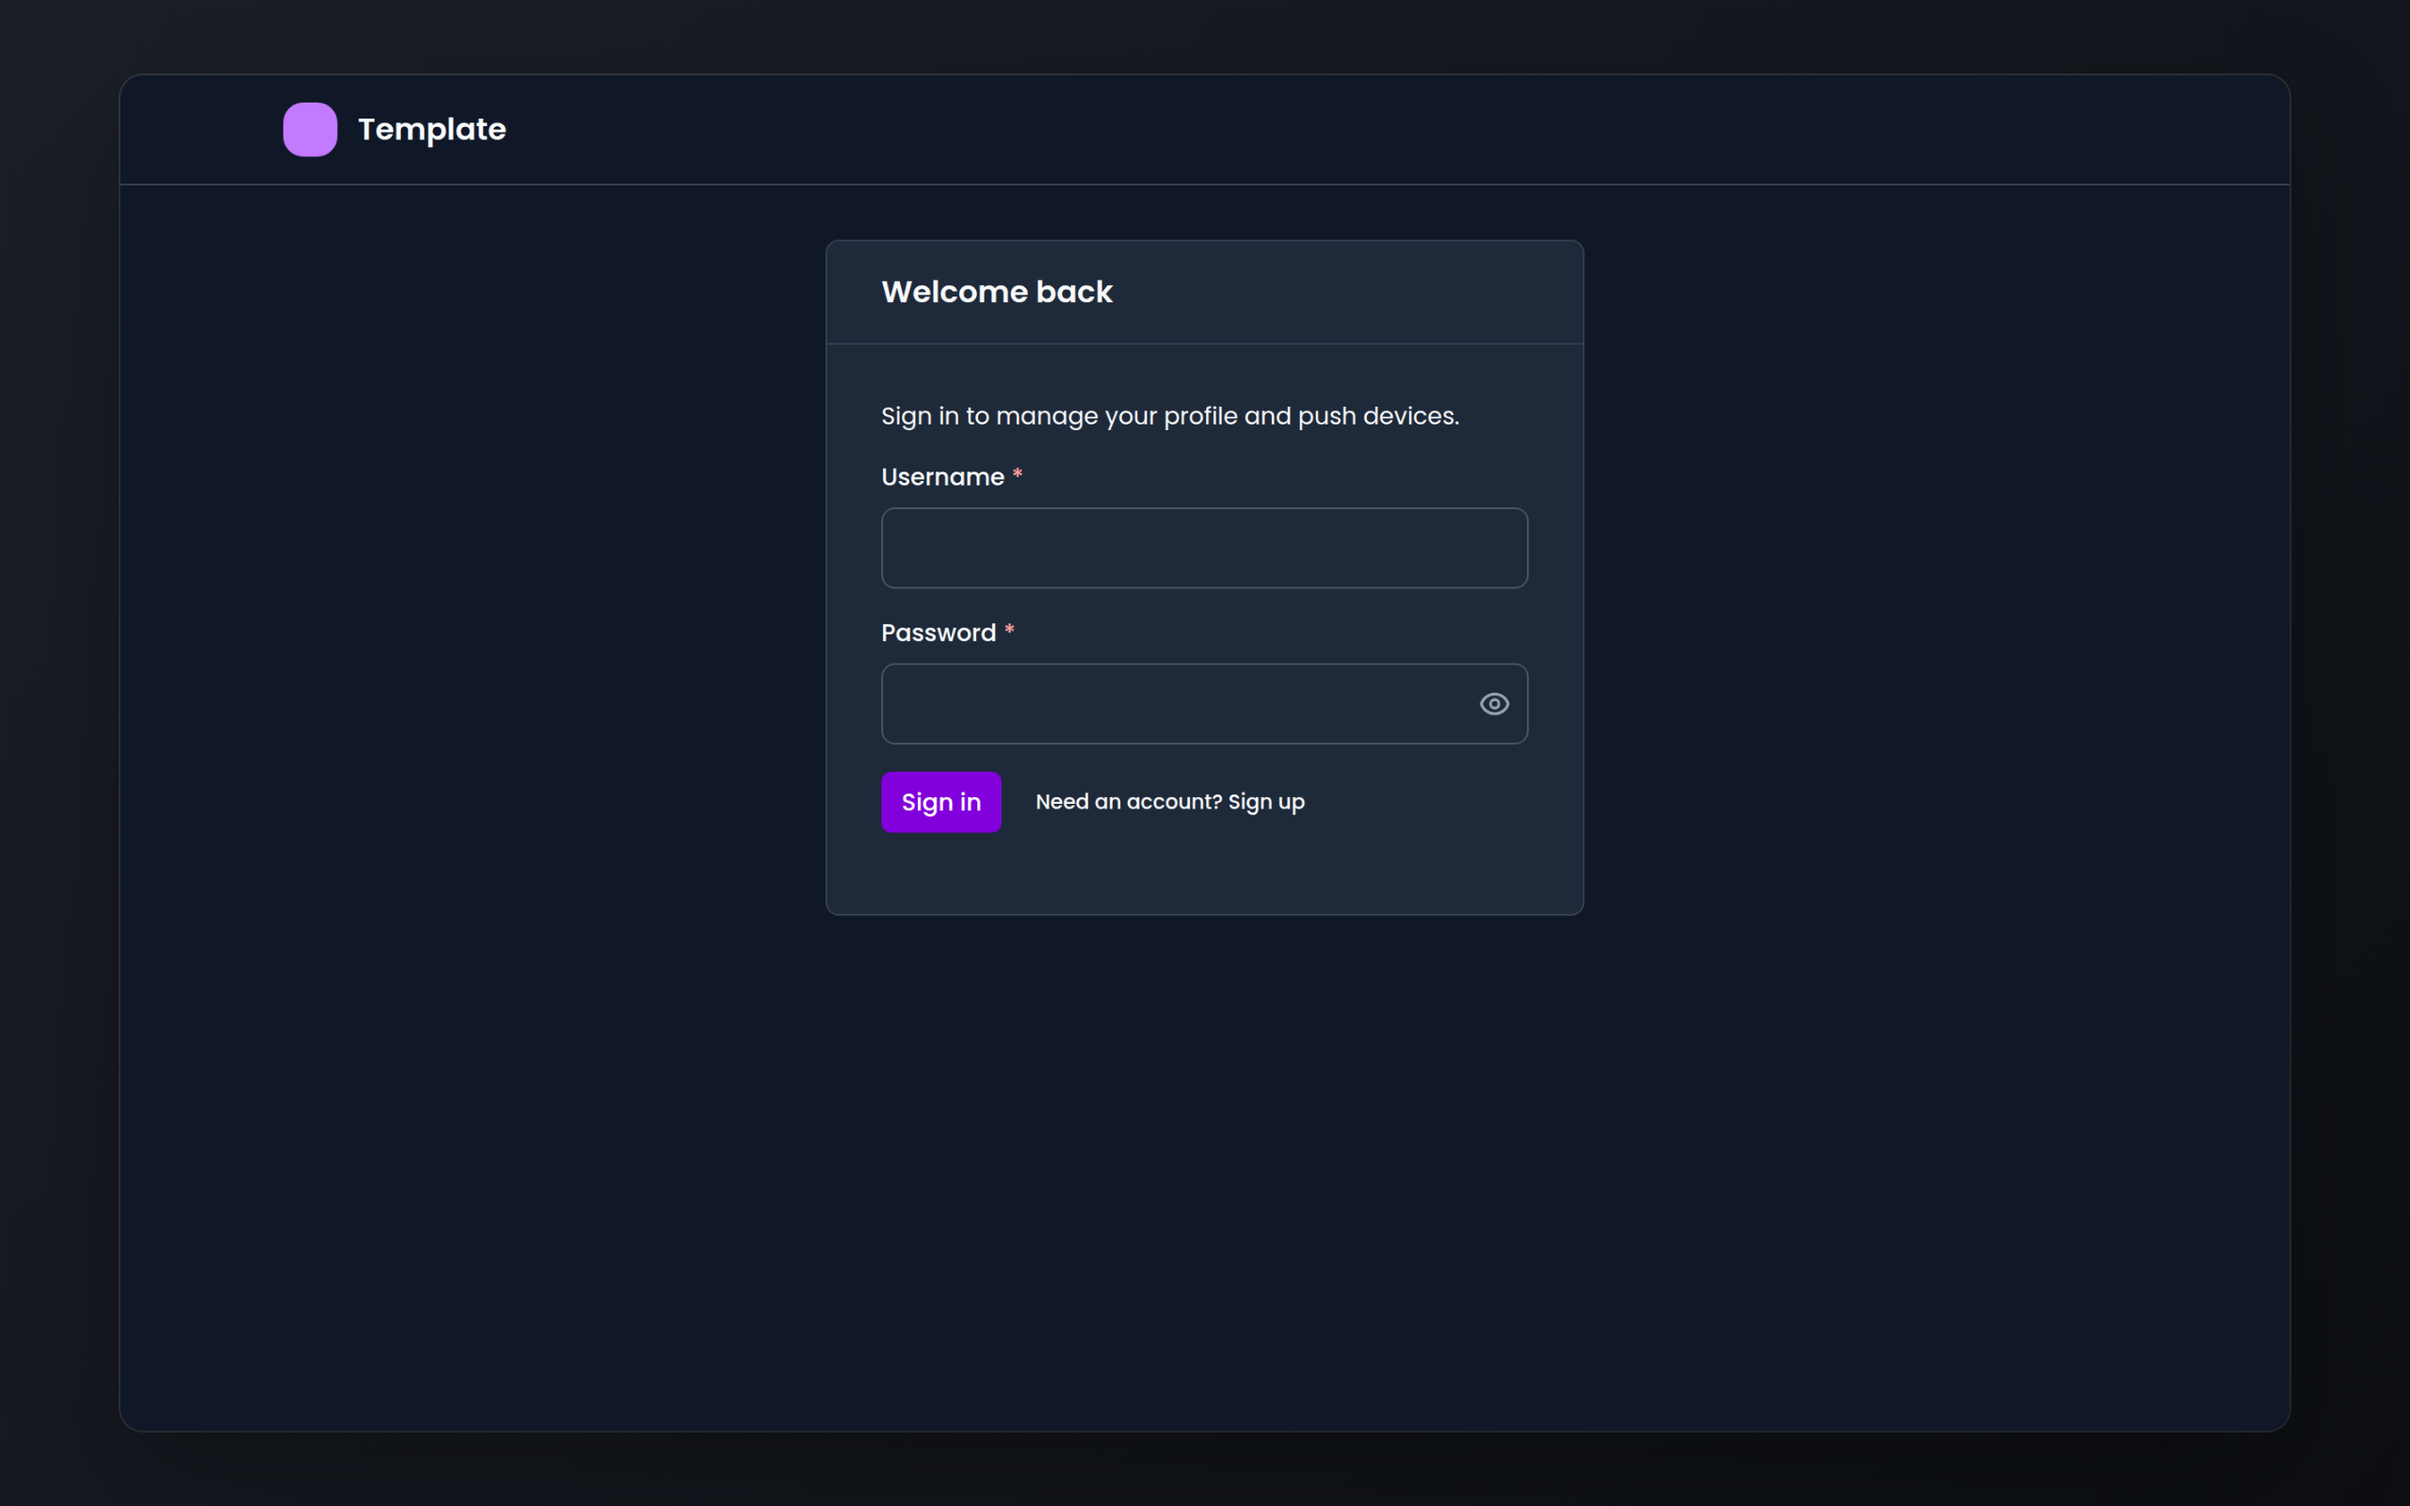
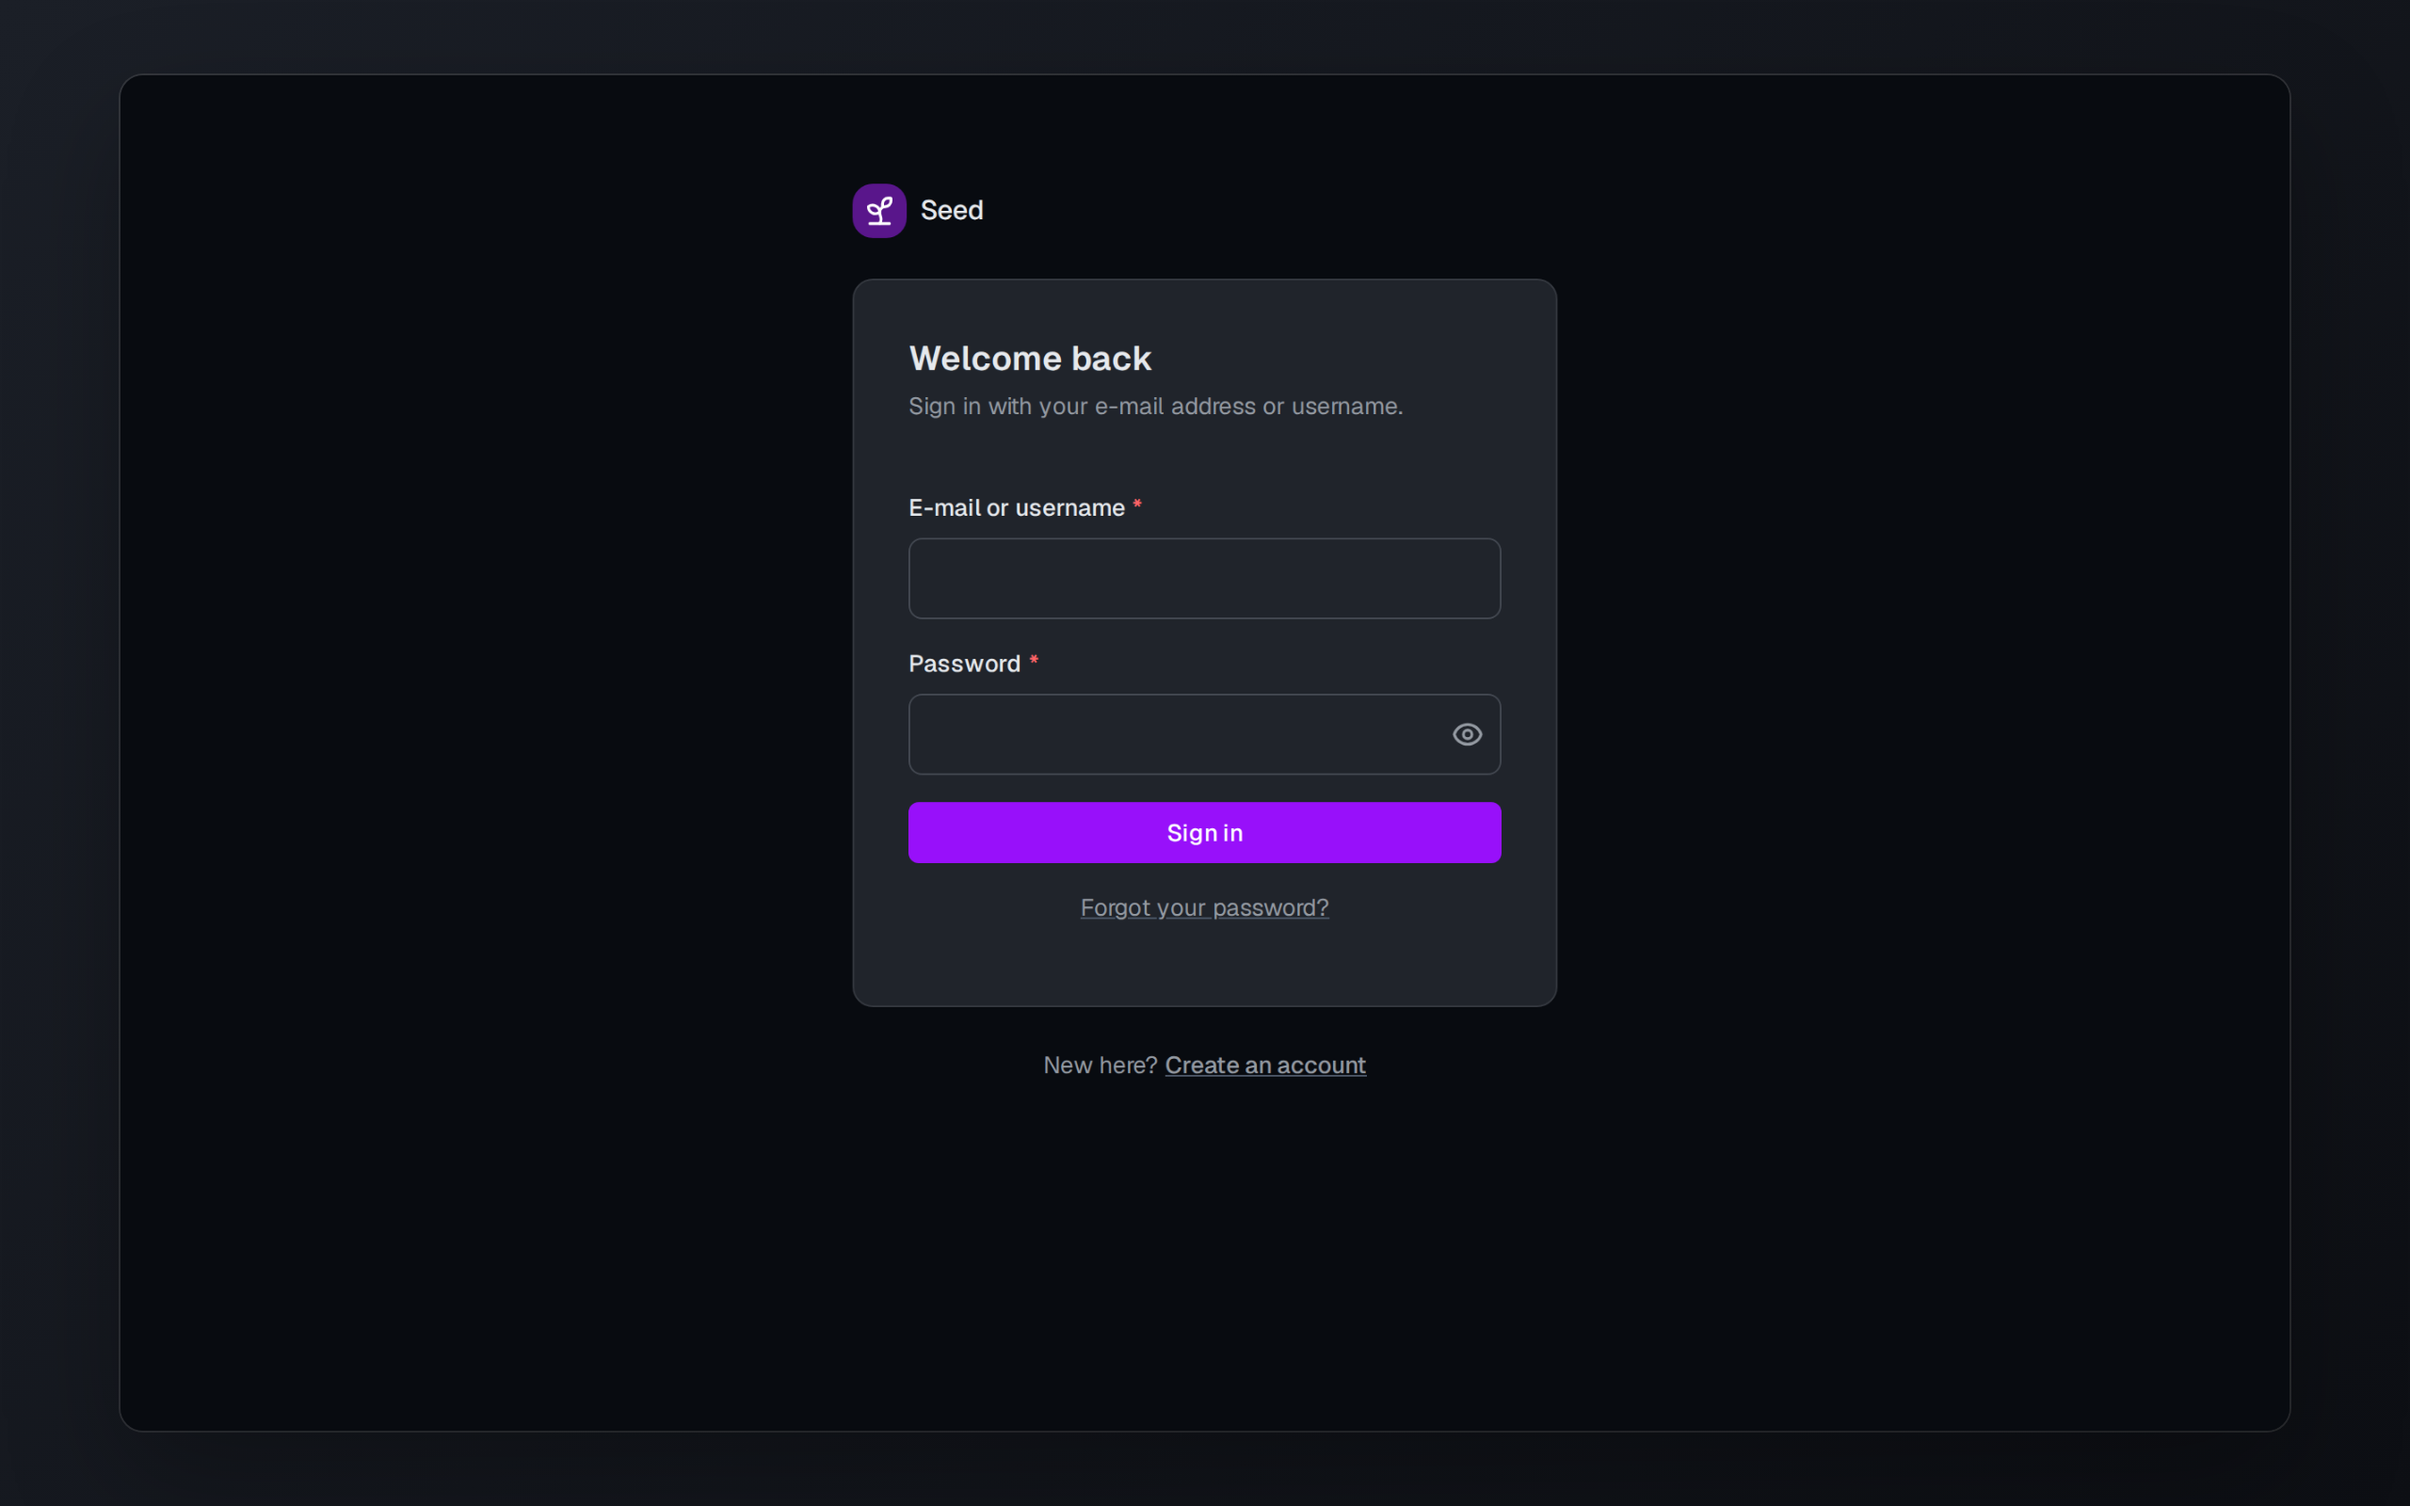
docs: re-record the README screenshots and GIF
Sign-up now takes an e-mail address and a mailed code, and the profile names itself in a dialog; the recorder follows both, and the alt texts describe the current screens.

Changed region(s): [[0.3438, 0.125, 0.6562, 0.625], [0.0938, 0.0625, 0.2188, 0.125], [0.4375, 0.6875, 0.5625, 0.7188]]

diff --git a/docs/screenshots/record.ts b/docs/screenshots/record.ts
@@ -2,8 +2,10 @@
  * Records the README screenshots, the sign-up GIF and the GitHub social preview image from a
  * running app, with neutral demo data.
  *
- * Needs the app reachable as one origin (API under /api, SPA everywhere else) on a fresh,
- * throw-away database: the GIF signs the demo user up, and the stills sign that user in.
+ * Needs the app reachable as one origin (API under /api, SPA everywhere else) on a throw-away
+ * database in development mode: the run first deletes the demo user through the development route
+ * `/api/test/cleanup-user`; the GIF signs that user up, reading the mailed code
+ * from the development route `/api/test/last-mail`, and the stills sign that user in.
  * `deno task dev` behind `deno task proxy:start` serves it at http://app.localhost. Also needs
  * `ffmpeg` on the PATH for the GIF.
  *
@@ -24,7 +26,7 @@ type Theme = typeof THEMES[number]
 
 /** Neutral demo data: no real person, product or price. */
 const DEMO = {
-  username: "alex.rivera",
+  email: "alex.rivera@example.com",
   password: "Demo-passw0rd!",
   firstName: "Alex",
   lastName: "Rivera",
@@ -47,15 +49,23 @@ function newContext(browser: Browser, theme: Theme, scale: number): Promise<Brow
   })
 }
 
-/** Waits for the SPA's first load, which is slow while the dev server bundles dependencies. */
+/**
+ * Deletes the demo user a previous run left, through the development route, and waits for the
+ * first load of both signed-out pages, which is slow while the dev server bundles dependencies.
+ */
 async function warmUp(browser: Browser): Promise<void> {
   const context = await newContext(browser, "light", 1)
   try {
     const page = await context.newPage()
-    await page.goto("/sign-in")
-    await page.getByRole("heading", { level: 1, name: "Welcome back" }).waitFor({
-      timeout: 120_000,
+    const cleanup = await page.request.post("/api/test/cleanup-user", {
+      data: { login: DEMO.email },
     })
+    if (!cleanup.ok()) throw new Error(`cleanup-user answered ${cleanup.status()}`)
+    const pages = [["/sign-in", "Welcome back"], ["/sign-up", "Create your account"]]
+    for (const [path, name] of pages) {
+      await page.goto(path)
+      await page.getByRole("heading", { level: 1, name }).waitFor({ timeout: 120_000 })
+    }
   } finally {
     await context.close()
   }
@@ -70,16 +80,15 @@ async function captureStills(browser: Browser, theme: Theme): Promise<Record<str
     await page.getByRole("heading", { level: 1, name: "Welcome back" }).waitFor()
     await page.waitForTimeout(500)
     const signIn = await page.screenshot()
-    await page.locator("[data-e2e=auth-form-login]").fill(DEMO.username)
+    await page.locator("[data-e2e=auth-form-login]").fill(DEMO.email)
     await page.locator("[data-e2e=auth-form-password]").fill(DEMO.password)
     await page.locator("[data-e2e=auth-form-submit]").click()
     await page.waitForURL(`${BASE_URL}/`)
-    await page.locator("[data-e2e=ws-status]", { hasText: "open" }).waitFor()
-    await page.waitForFunction(
-      (name) =>
-        document.querySelector<HTMLInputElement>("[data-e2e=profile-first-name]")?.value === name,
-      DEMO.firstName,
-    )
+    await page.locator("[data-e2e=profile-name]", {
+      hasText: `${DEMO.firstName} ${DEMO.lastName}`,
+    }).waitFor()
+    // The sidebar names the group once the groups have loaded.
+    await page.getByRole("button", { name: /^Group: / }).waitFor()
     await page.waitForTimeout(800)
     const profile = await page.screenshot()
     return { "sign-in": signIn, profile }
@@ -135,8 +144,25 @@ async function socialPreview(browser: Browser, profile: Uint8Array): Promise<Uin
   }
 }
 
+/** The text of the newest mail the dev worker sent to `email`, from the development route. */
+async function lastMailText(page: Page, email: string): Promise<string | null> {
+  const response = await page.request.post("/api/test/last-mail", { data: { email } })
+  return response.ok() ? (await response.json() as { text: string }).text : null
+}
+
+/** Waits for a mail to `email` other than `before` and answers the code in it. */
+async function nextCode(page: Page, email: string, before: string | null): Promise<string> {
+  for (let attempt = 0; attempt < 40; attempt++) {
+    const text = await lastMailText(page, email)
+    if (text && text !== before) return text.split("\n\n")[1].trim()
+    await page.waitForTimeout(500)
+  }
+  throw new Error(`no sign-up code reached ${email} within 20 seconds`)
+}
+
 /**
- * Records sign-up, then naming the profile, the way a person does it, with a drawn pointer.
+ * Records sign-up with an address, a password and the mailed code, then naming the profile, the
+ * way a person does it, with a drawn pointer.
  * The GIF is recorded in the light theme; the stills cover both.
  * Returns the WebM path and how many seconds of blank start to trim.
  */
@@ -158,21 +184,33 @@ async function recordFlow(browser: Browser, dir: string): Promise<{ video: strin
     page = await context.newPage()
     const started = Date.now()
     await page.goto("/sign-up")
-    await page.getByRole("heading", { level: 1, name: "Create account" }).waitFor()
+    await page.getByRole("heading", { level: 1, name: "Create your account" }).waitFor()
     await page.mouse.move(pointer.x, pointer.y)
     trim = (Date.now() - started) / 1000
     await page.waitForTimeout(900)
 
     const h = VIEWPORT.height
-    await typeLike(page, pointer, page.locator("[data-e2e=auth-form-login]"), DEMO.username, h)
+    await typeLike(page, pointer, page.locator("[data-e2e=auth-form-login]"), DEMO.email, h)
     await page.waitForTimeout(300)
     await typeLike(page, pointer, page.locator("[data-e2e=auth-form-password]"), DEMO.password, h)
     await page.waitForTimeout(500)
+    const before = await lastMailText(page, DEMO.email)
     await clickLike(page, pointer, page.locator("[data-e2e=auth-form-submit]"), h)
+    const codeInput = page.locator("[data-e2e=sign-up-code-input]")
+    await codeInput.waitFor()
+    const code = await nextCode(page, DEMO.email, before)
+    await page.waitForTimeout(600)
+    await typeLike(page, pointer, codeInput, code, h)
+    await page.waitForTimeout(400)
+    await clickLike(page, pointer, page.locator("[data-e2e=sign-up-code-submit]"), h)
     await page.waitForURL(`${BASE_URL}/`)
-    await page.locator("[data-e2e=ws-status]", { hasText: "open" }).waitFor()
+    const edit = page.locator("[data-e2e=profile-edit]")
+    await edit.waitFor()
     await page.waitForTimeout(1000)
 
+    await clickLike(page, pointer, edit, h)
+    await page.locator("[data-e2e=profile-first-name]").waitFor()
+    await page.waitForTimeout(400)
     await typeLike(page, pointer, page.locator("[data-e2e=profile-first-name]"), DEMO.firstName, h)
     await page.waitForTimeout(300)
     await typeLike(page, pointer, page.locator("[data-e2e=profile-last-name]"), DEMO.lastName, h)

diff --git a/README.md b/README.md
@@ -12,7 +12,7 @@ web app, a worker and Postgres. Work in progress.**
 gh repo create my-product --template spy4x/template --private --clone
 ```
 
-<img src="docs/screenshots/sign-up-flow.gif" alt="An older version of the app: a new user signs up with a username and password, lands on the profile page with the realtime connection open, types the first name Alex and the last name Rivera, and saves; a green toast confirms the profile was updated." width="800">
+<img src="docs/screenshots/sign-up-flow.gif" alt="A new user signs up with an e-mail address and a password, types the code the app mailed to that address, lands on the profile page with a Get started checklist, opens Edit name, types the first name Alex and the last name Rivera, and saves; a green toast confirms the profile was updated." width="800">
 
 [Architecture](docs/architecture.md) · [ADR 001](docs/decisions/001-deno-platform-template.md) ·
 [ADR 002](docs/decisions/002-realtime-transport-and-sync.md) ·
@@ -100,10 +100,10 @@ it cannot create the user, it says so and exits with 1.
 
 ## What a fresh project looks like
 
-| Light                                                                                                                                                                                                                     | Dark                                                                                                                                                                                                                    |
-| ------------------------------------------------------------------------------------------------------------------------------------------------------------------------------------------------------------------------- | ----------------------------------------------------------------------------------------------------------------------------------------------------------------------------------------------------------------------- |
-| <img src="docs/screenshots/sign-in-light.png" alt="An older version of the sign-in page in the light theme: a card titled Welcome back with username and password fields, a Sign in button and a link to sign up.">       | <img src="docs/screenshots/sign-in-dark.png" alt="An older version of the sign-in page in the dark theme: a card titled Welcome back with username and password fields, a Sign in button and a link to sign up.">       |
-| <img src="docs/screenshots/profile-light.png" alt="An older version of the profile page in the light theme for the demo user Alex Rivera: name fields with a Save button, a change-password card and a two-factor card."> | <img src="docs/screenshots/profile-dark.png" alt="An older version of the profile page in the dark theme for the demo user Alex Rivera: name fields with a Save button, a change-password card and a two-factor card."> |
+| Light                                                                                                                                                                                                                                                                                                   | Dark                                                                                                                                                                                                                                                                                                  |
+| ------------------------------------------------------------------------------------------------------------------------------------------------------------------------------------------------------------------------------------------------------------------------------------------------------- | ----------------------------------------------------------------------------------------------------------------------------------------------------------------------------------------------------------------------------------------------------------------------------------------------------- |
+| <img src="docs/screenshots/sign-in-light.png" alt="The sign-in page in the light theme: a card titled Welcome back with an e-mail or username field, a password field, a Sign in button, a link for a forgotten password and a link to create an account.">                                             | <img src="docs/screenshots/sign-in-dark.png" alt="The sign-in page in the dark theme: a card titled Welcome back with an e-mail or username field, a password field, a Sign in button, a link for a forgotten password and a link to create an account.">                                             |
+| <img src="docs/screenshots/profile-light.png" alt="The profile page in the light theme for the demo user Alex Rivera: the sidebar with the Personal group, Notes, Tags, Activity and Groups, a Get started checklist with the e-mail address already verified, and the Account section with the name."> | <img src="docs/screenshots/profile-dark.png" alt="The profile page in the dark theme for the demo user Alex Rivera: the sidebar with the Personal group, Notes, Tags, Activity and Groups, a Get started checklist with the e-mail address already verified, and the Account section with the name."> |
 
 The screenshots and the GIF use a throw-away database and a made-up user;
 [`docs/screenshots/record.ts`](docs/screenshots/record.ts) records them again from a running app.
